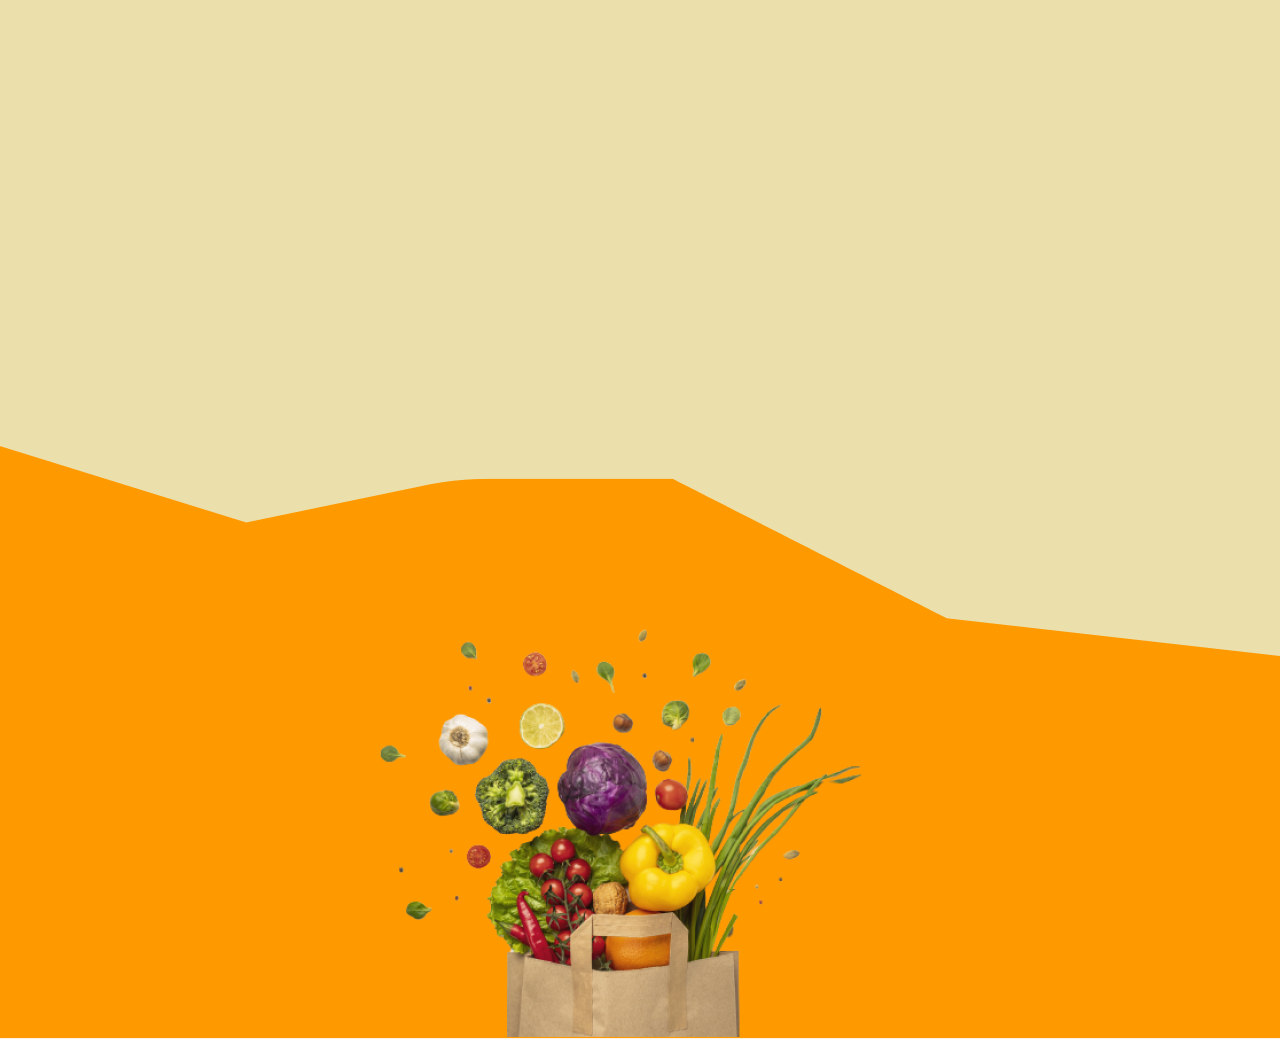
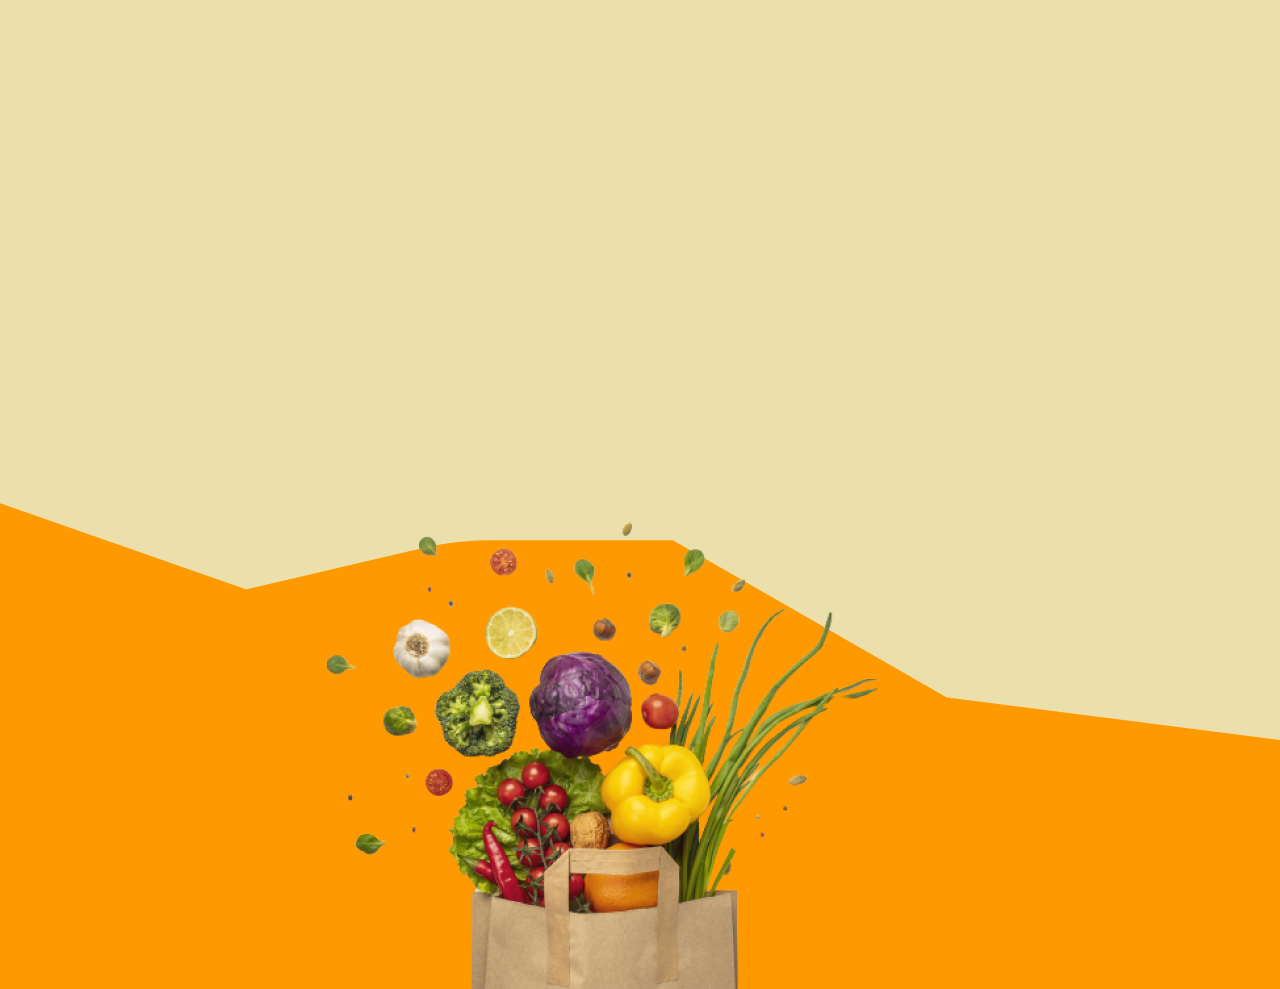
.

Changed region(s): [[0.0, 0.4247, 1.0, 1.0], [0.25, 0.6673, 0.2812, 0.6977]]

diff --git a/src/Css/Home-css/HomePt4.module.css b/src/Css/Home-css/HomePt4.module.css
@@ -1,9 +1,9 @@
 .Home{
 width:100%;
-height:1161px;
+height:989px;
 background-image:url(../../Images/BGHome4.png);
-background-repeat: no-repeat;
-background-size: 100%;
+/* background-repeat: no-repeat; */
+/* background-size: 100%; */
 }
 
 .container_imagens{

diff --git a/src/Components/Home/HomePt3.jsx b/src/Components/Home/HomePt3.jsx
@@ -17,4 +17,4 @@ function HomePt3() {
     </section>
   )
 }
-export default HomePt3
+export default HomePt3;
